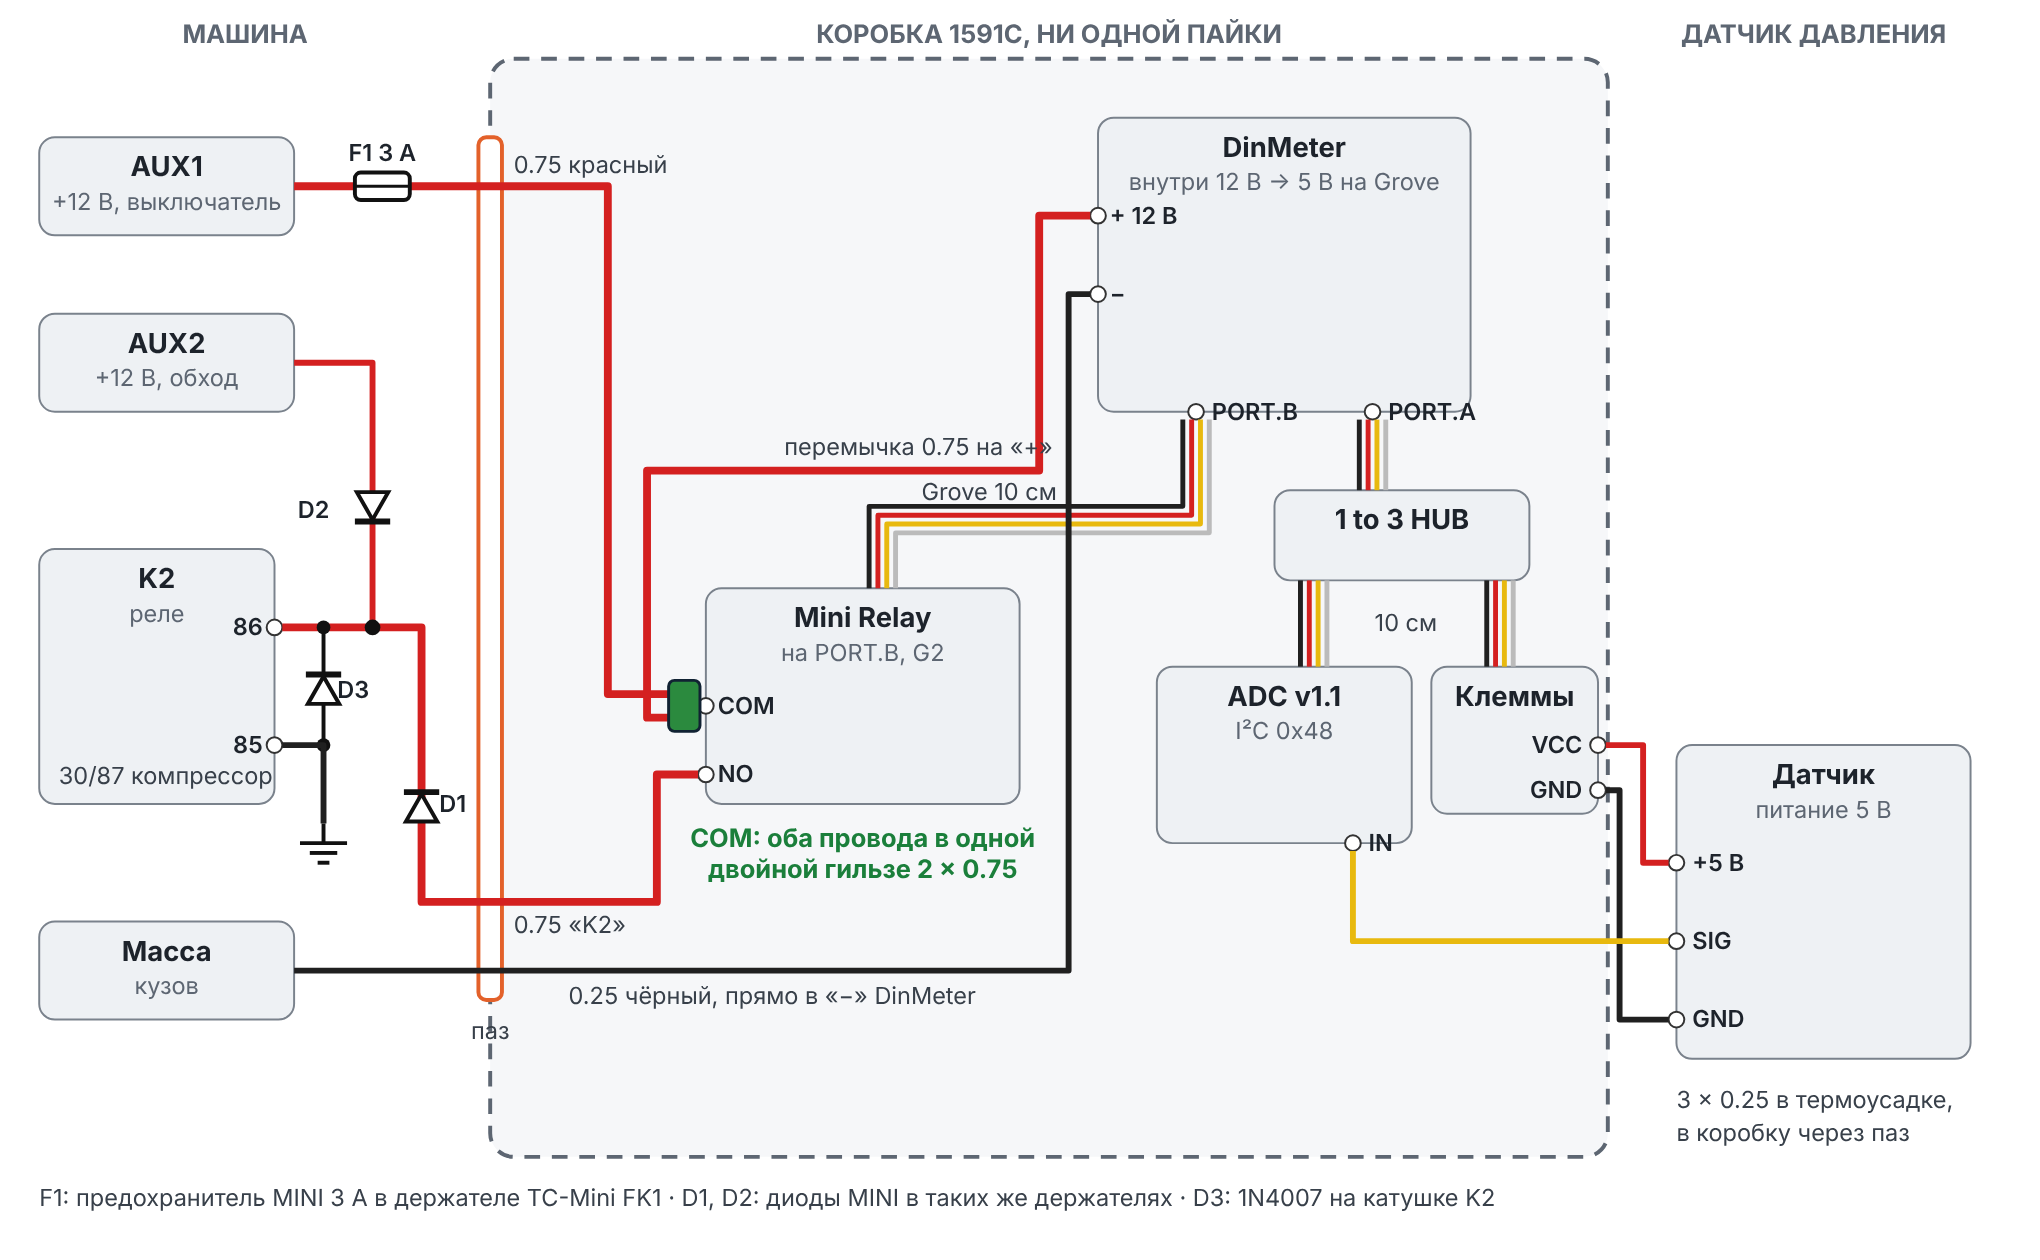
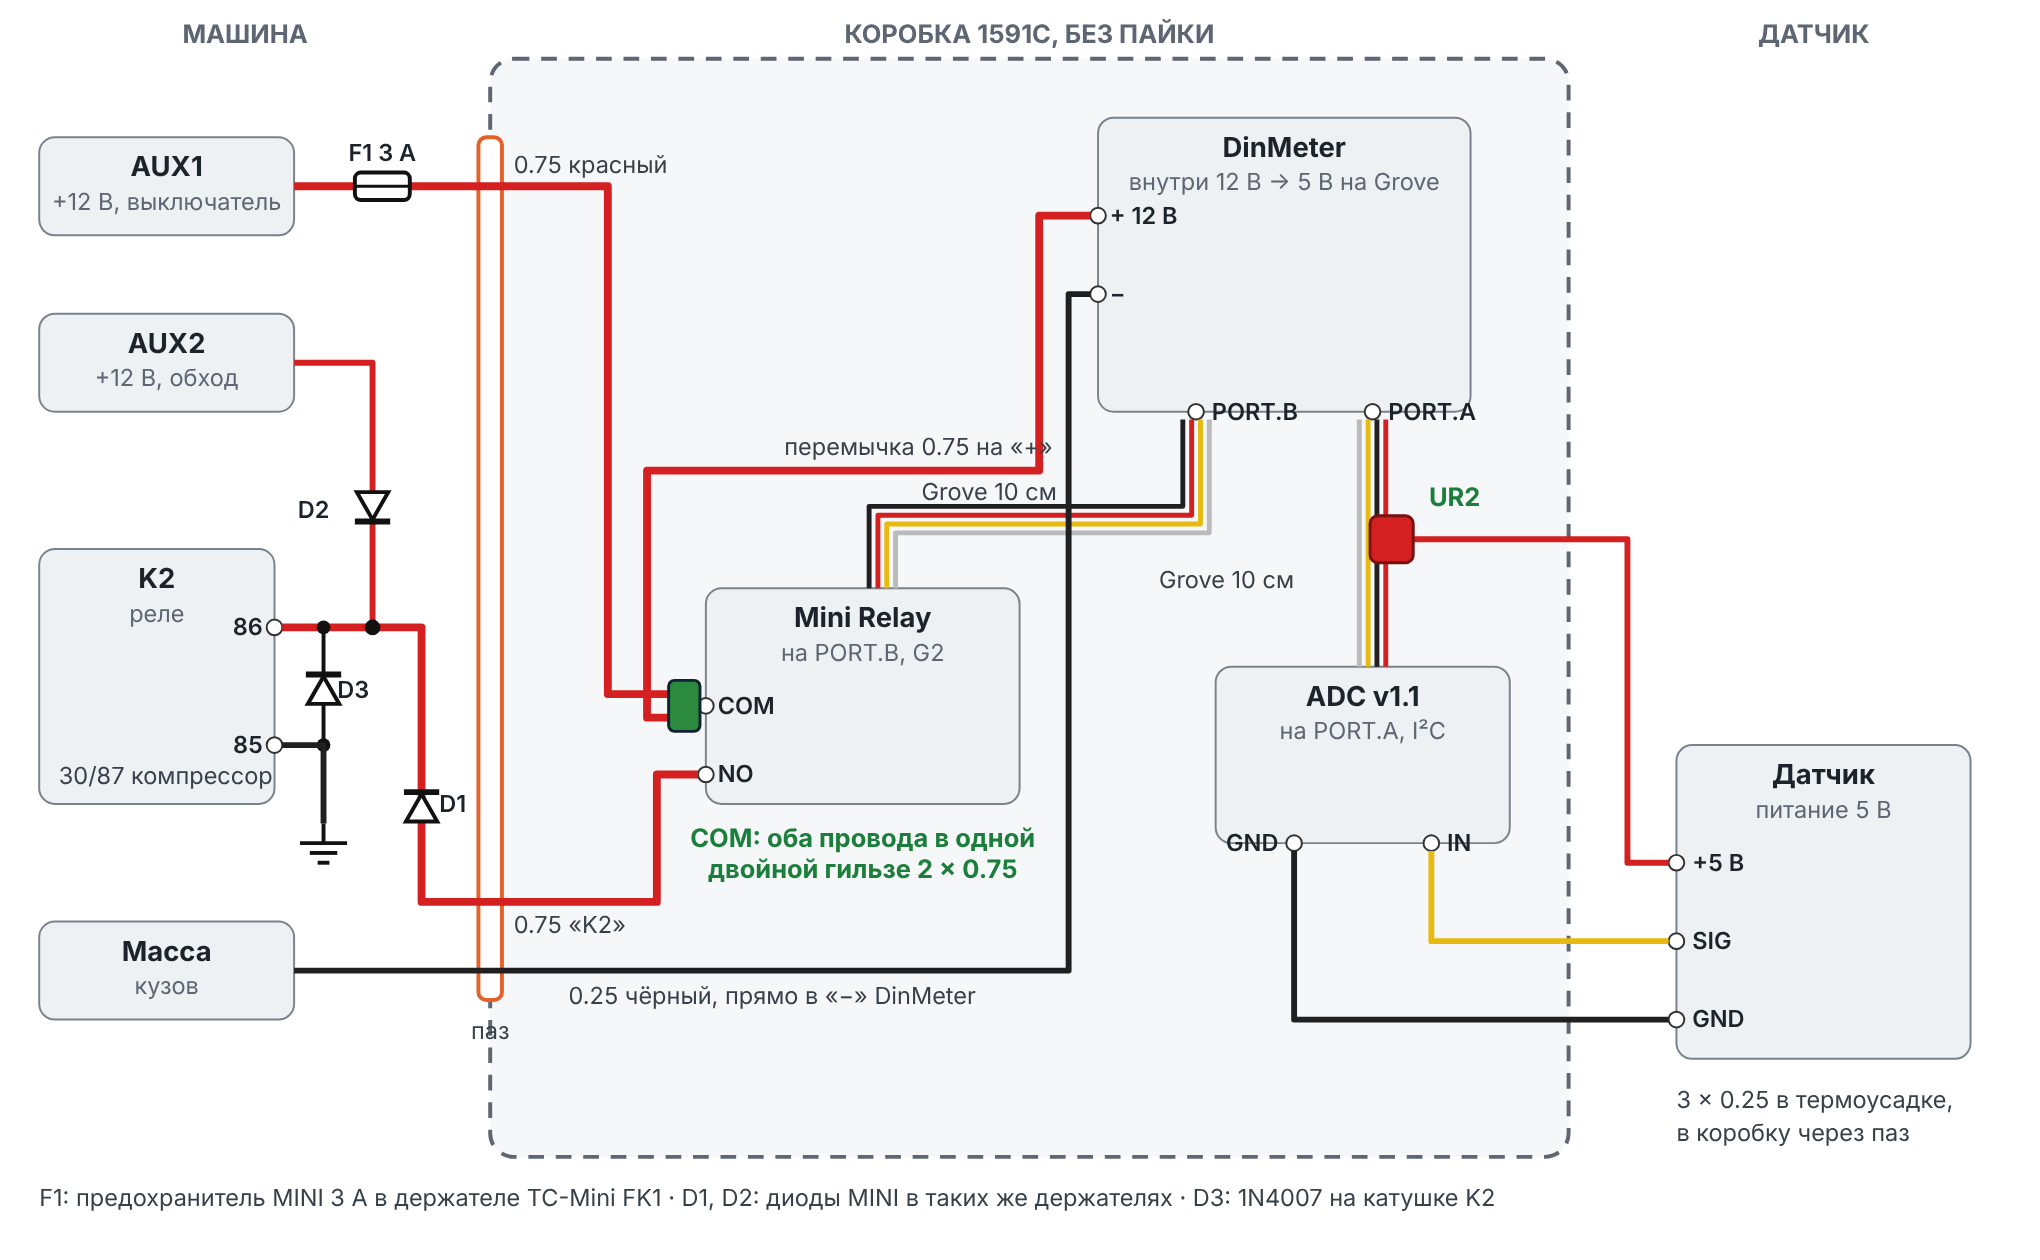
No-solder schematic: no HUB, sensor 5 V via Scotchlok UR2 on the PORT.A Grove red wire
Claude-Session: https://claude.ai/code/session_018z5LvCZ9NFya6WZW91qW8w

Changed region(s): [[0.5868, 0.3405, 0.8029, 0.8357], [0.4015, 0.0, 0.6176, 0.031], [0.8338, 0.0, 0.9574, 0.0619]]

diff --git a/hardware/enclosure/hammond_1591c/power_svg.py b/hardware/enclosure/hammond_1591c/power_svg.py
@@ -145,44 +145,37 @@ def fuse(x, y, label):
 
 
 def power_svg_nosolder():
-    """Same circuit without any splice in the box: twin ferrule at relay COM, ground straight to the DinMeter,
-    sensor 5 V from a Grove HUB and a Grove screw terminal."""
+    """Same circuit without solder: twin ferrule at relay COM, ground straight to the DinMeter,
+    sensor +5 V taken off the PORT.A Grove red wire with a 3M Scotchlok UR2."""
     o = ['<svg viewBox="0 0 1020 630" style="color:var(--fg);max-width:1000px;margin:0 auto;background:#fff;border-radius:8px">',
          '<style>.bt{font:700 14px var(--f);text-anchor:middle;fill:#1d232b}.bs{font:12px var(--f);text-anchor:middle;fill:#5d6672}'
          '.pl{font:600 12px var(--f);fill:#1d232b}.sp{font:700 13px var(--f);fill:#1b7f3b}.wl{font:12px var(--f);fill:#38404a}.hd{font:700 13px var(--f);fill:#5d6672}</style>']
-    o.append('<rect x="250" y="30" width="570" height="560" rx="12" fill="#f6f7f9" stroke="#5d6672" stroke-width="2" stroke-dasharray="8 6"/>')
-    o.append('<text x="535" y="22" class="hd" text-anchor="middle">КОРОБКА 1591C, НИ ОДНОЙ ПАЙКИ</text>')
-    o.append('<text x="125" y="22" class="hd" text-anchor="middle">МАШИНА</text><text x="925" y="22" class="hd" text-anchor="middle">ДАТЧИК ДАВЛЕНИЯ</text>')
+    o.append('<rect x="250" y="30" width="550" height="560" rx="12" fill="#f6f7f9" stroke="#5d6672" stroke-width="2" stroke-dasharray="8 6"/>')
+    o.append('<text x="525" y="22" class="hd" text-anchor="middle">КОРОБКА 1591C, БЕЗ ПАЙКИ</text>')
+    o.append('<text x="125" y="22" class="hd" text-anchor="middle">МАШИНА</text><text x="925" y="22" class="hd" text-anchor="middle">ДАТЧИК</text>')
     o.append('<rect x="244" y="70" width="12" height="440" rx="4" fill="#fff" stroke="#e3612a" stroke-width="2"/>'
              '<text x="250" y="530" class="wl" text-anchor="middle">паз</text>')
-    # car side
     o.append(block(20, 70, 130, 50, "AUX1", "+12 В, выключатель"))
     o.append(block(20, 160, 130, 50, "AUX2", "+12 В, обход"))
     o.append(block(20, 280, 120, 130, "K2", "реле"))
     o.append(pin(140, 320, "86", "end")); o.append(pin(140, 380, "85", "end"))
     o.append('<text x="30" y="400" class="wl">30/87 компрессор</text>')
     o.append(block(20, 470, 130, 50, "Масса", "кузов"))
-    # modules
     o.append(block(560, 60, 190, 150, "DinMeter", "внутри 12 В → 5 В на Grove"))
     o.append(pin(560, 110, "+ 12 В")); o.append(pin(560, 150, "−"))
     o.append(pin(610, 210, "PORT.B", "start", 8)); o.append(pin(700, 210, "PORT.A", "start", 8))
     o.append(block(360, 300, 160, 110, "Mini Relay", "на PORT.B, G2"))
     o.append(pin(360, 360, "COM")); o.append(pin(360, 395, "NO"))
-    o.append(block(650, 250, 130, 46, "1 to 3 HUB", ""))
-    o.append(block(590, 340, 130, 90, "ADC v1.1", "I²C 0x48"))
-    o.append(pin(690, 430, "IN", "start", 8))
-    o.append(block(730, 340, 85, 75, "Клеммы", ""))
-    o.append(pin(815, 380, "VCC", "end", 8)); o.append(pin(815, 403, "GND", "end", 8))
+    o.append(block(620, 340, 150, 90, "ADC v1.1", "на PORT.A, I²C"))
+    o.append(pin(660, 430, "GND", "end", 8)); o.append(pin(730, 430, "IN", "start", 8))
     o.append(block(855, 380, 150, 160, "Датчик", "питание 5 В"))
     o.append(pin(855, 440, "+5 В", "start", 8)); o.append(pin(855, 480, "SIG", "start", 8)); o.append(pin(855, 520, "GND", "start", 8))
     # Grove
     o.append(grove([(610, 214), (610, 265), (450, 265), (450, 300)], (BLK, RED, YEL, WHT)))
     o.append('<text x="470" y="255" class="wl">Grove 10 см</text>')
-    o.append(grove([(700, 214), (700, 250)], (BLK, RED, YEL, WHT)))
-    o.append(grove([(670, 296), (670, 340)], (BLK, RED, YEL, WHT)))
-    o.append(grove([(765, 296), (765, 340)], (BLK, RED, YEL, WHT)))
-    o.append('<text x="717" y="322" class="wl" text-anchor="middle">10 см</text>')
-    # +12 V: AUX1 -> F1 -> slot -> relay COM (twin ferrule) -> jumper -> DinMeter +
+    o.append(grove([(700, 214), (700, 340)], (WHT, YEL, BLK, RED)))
+    o.append('<text x="660" y="300" class="wl" text-anchor="end">Grove 10 см</text>')
+    # +12 V
     o.append(line([(150, 95), (310, 95), (310, 354), (356, 354)], RED, 4))
     o.append(fuse(195, 95, "F1 3 А"))
     o.append('<text x="262" y="88" class="wl">0.75 красный</text>')
@@ -190,10 +183,10 @@ def power_svg_nosolder():
     o.append('<text x="400" y="232" class="wl">перемычка 0.75 на «+»</text>')
     o.append('<rect x="341" y="347" width="16" height="26" rx="3" fill="#2b8a3e" stroke="#123" stroke-width="1.5"/>')
     o.append('<text x="440" y="432" class="sp" text-anchor="middle">COM: оба провода в одной</text><text x="440" y="448" class="sp" text-anchor="middle">двойной гильзе 2 × 0.75</text>')
-    # ground straight to the DinMeter
+    # ground
     o.append(line([(150, 495), (545, 495), (545, 150), (556, 150)], BLK, 3))
     o.append('<text x="290" y="512" class="wl">0.25 чёрный, прямо в «−» DinMeter</text>')
-    # relay NO -> slot -> D1 -> K2 86; AUX2 -> D2; D3 across the coil
+    # K2 side
     o.append(line([(356, 395), (335, 395), (335, 460), (215, 460), (215, 320), (144, 320)], RED, 4))
     o.append('<text x="262" y="476" class="wl">0.75 «K2»</text>')
     o.append(diode(215, 410, "up")); o.append('<text x="224" y="414" class="pl">D1</text>')
@@ -204,10 +197,13 @@ def power_svg_nosolder():
     o.append('<text x="172" y="356" class="pl">D3</text><circle cx="165" cy="320" r="3.5" fill="#111"/><circle cx="165" cy="380" r="3.5" fill="#111"/>')
     o.append(line([(144, 380), (165, 380), (165, 420)], BLK, 3)); o.append(gnd(165, 420))
     o.append('<text x="20" y="615" class="wl">F1: предохранитель MINI 3 А в держателе TC-Mini FK1 · D1, D2: диоды MINI в таких же держателях · D3: 1N4007 на катушке K2</text>')
-    # sensor
-    o.append(line([(819, 380), (838, 380), (838, 440), (851, 440)], RED, 3))
-    o.append(line([(819, 403), (826, 403), (826, 520), (851, 520)], BLK, 3))
-    o.append(line([(851, 480), (690, 480), (690, 434)], YEL, 3))
+    # sensor: +5 V from the Grove red wire through a Scotchlok UR2, GND and SIG to the ADC terminal
+    ux = 700 + 4.5 * 1.5
+    o.append(line([(851, 440), (830, 440), (830, 275), (ux + 8, 275)], RED, 3))
+    o.append(f'<rect x="{ux - 8}" y="263" width="22" height="24" rx="4" fill="#d42020" stroke="#7a0f0f" stroke-width="1.5"/>')
+    o.append(f'<text x="{ux + 22}" y="258" class="sp">UR2</text>')
+    o.append(line([(851, 480), (730, 480), (730, 434)], YEL, 3))
+    o.append(line([(851, 520), (660, 520), (660, 434)], BLK, 3))
     o.append('<text x="855" y="565" class="wl">3 × 0.25 в термоусадке,</text><text x="855" y="582" class="wl">в коробку через паз</text>')
     o.append("</svg>")
     return "".join(o)
